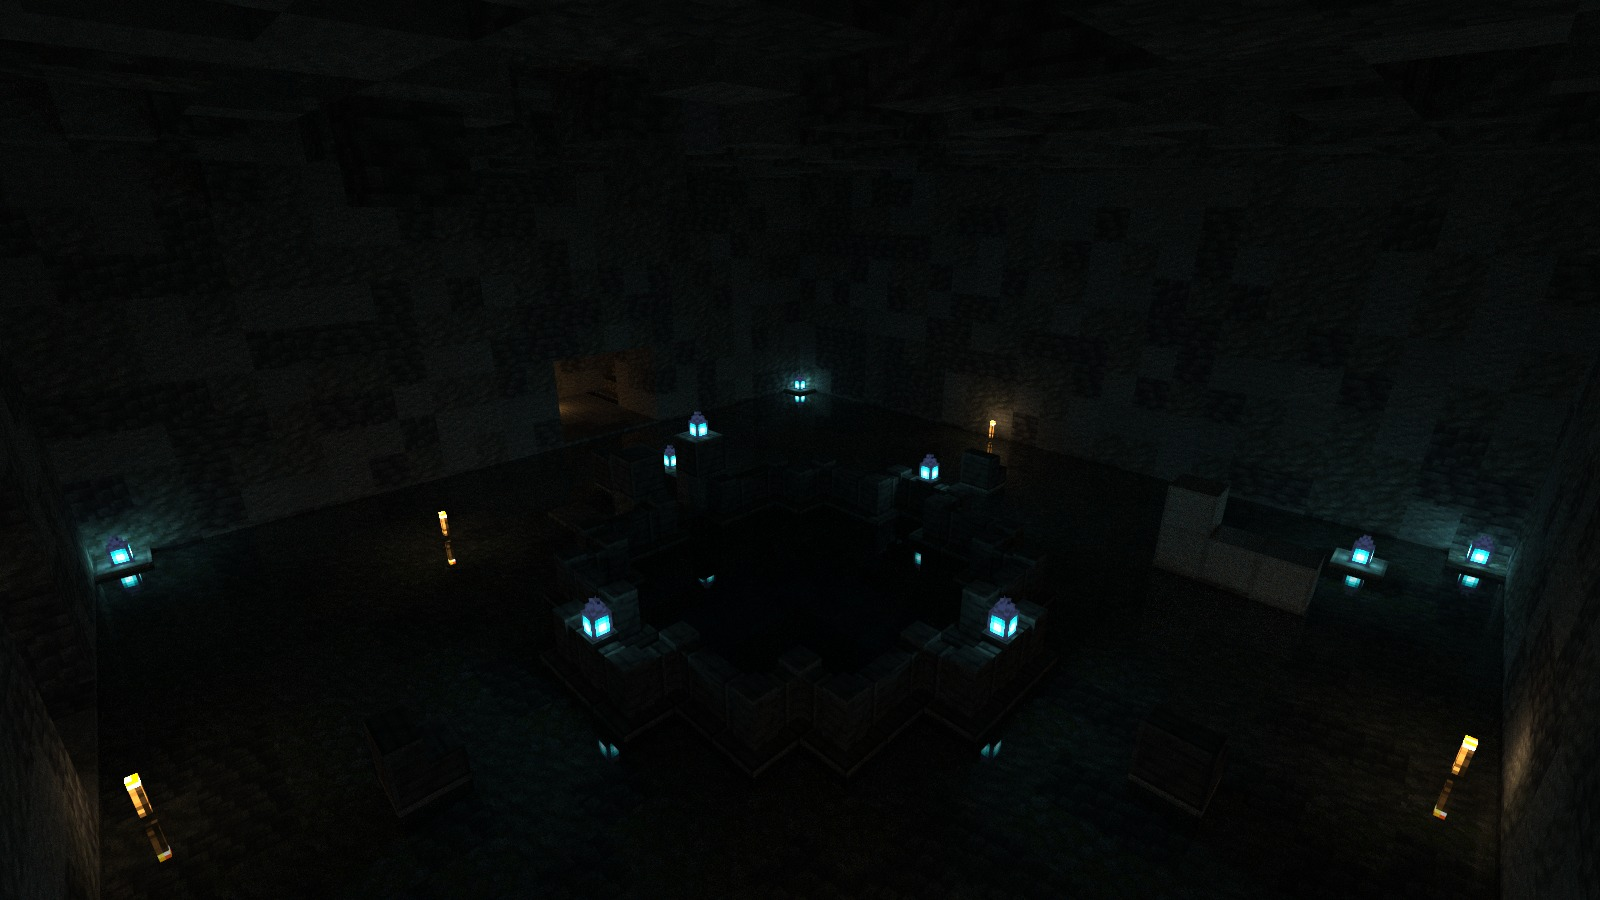
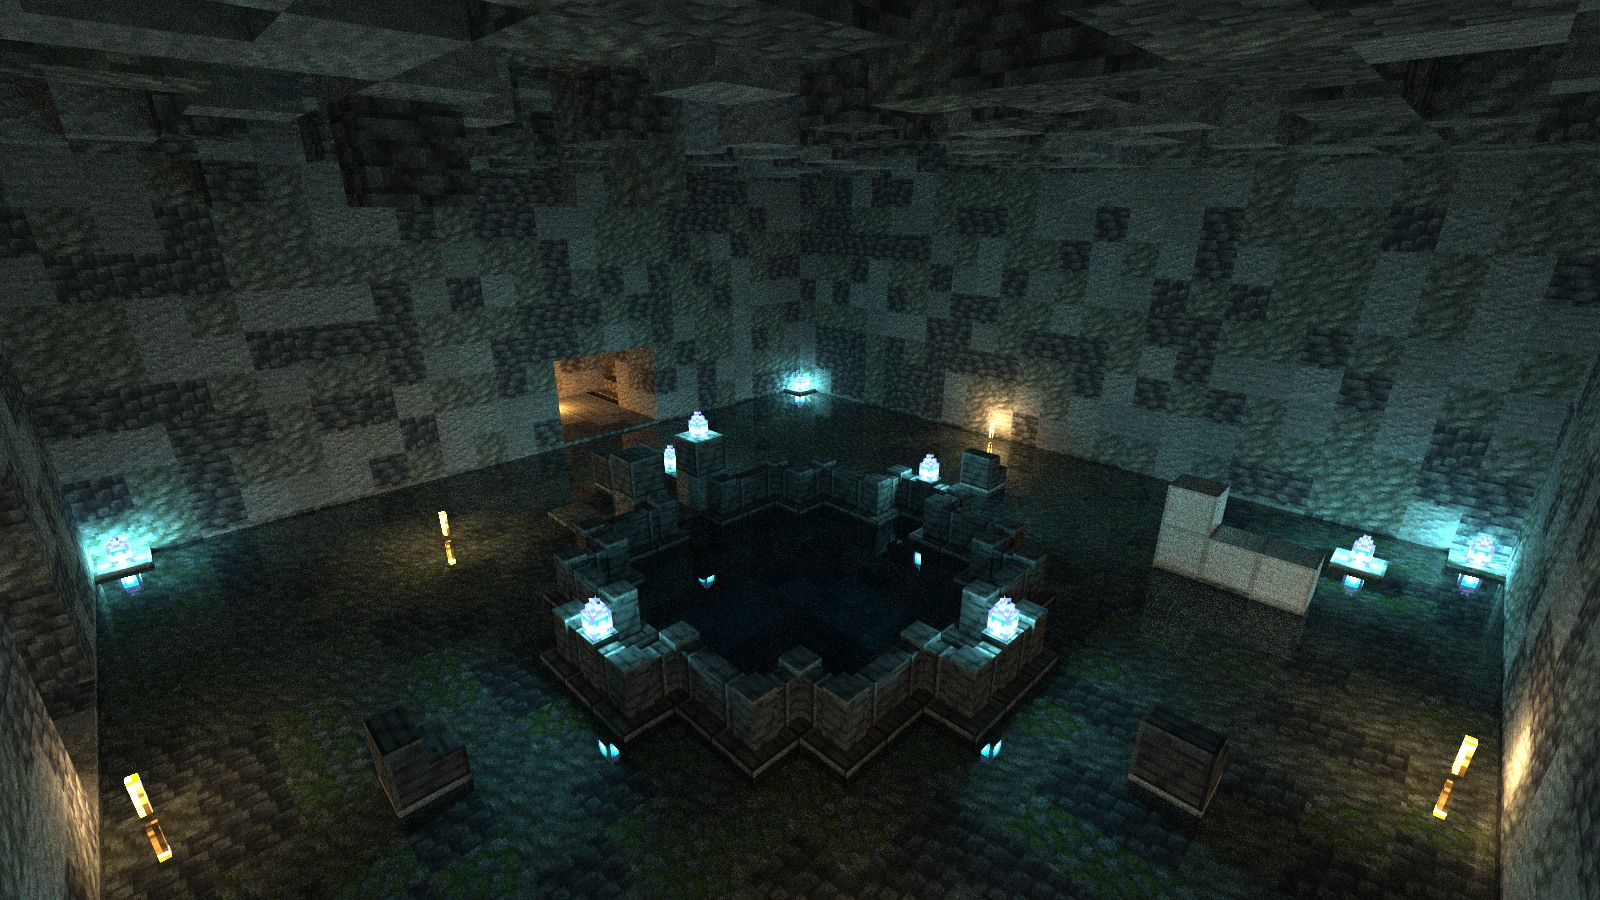
docs(media): Vesperhold's three interiors exposed per camera
The chapel, the undertide pool and the throne hall are redrawn at a
stated exposure, Lumenwright 0.3.0's HqOptions::exposure (the linear
multiplier before its tonemap); delvec 1.14.0's frame function fixes
exposure at 1.0 and offers none per camera. The scratch instrument builds
the same Request as frames::draw with only that field stated (at 1.0 its
PNG is byte-identical to frames::draw's). Each exposure is the value whose
400x225 256-spp frame has the old picture's mean luma (bisection on the
old JPEG). No pixel is changed after the render. Cameras, sky and world
are unchanged.

The chapel's rose window glows again at this exposure, so its caption is
restored to say so.

| Picture | exposure | spp | render s | bytes |
|---|---|---|---|---|
| 07-chapel-of-hours | 12.16 | 4096 | 631 | 377209 |
| 08-undertide-pool | 24.44 | 8192 | 1116 | 474263 |
| 11-throne-hall | 25.46 | 8192 | 806 | 477272 |

Backend: Metal, Apple M2 Pro. JPEG: Pillow, highest quality <= 92 at or
under 500000 bytes, 4:2:0, progressive.

diff --git a/docs/media/vesperhold/README.md b/docs/media/vesperhold/README.md
@@ -24,7 +24,7 @@ The cloister from above: one tree in the garth, the arcades around it, the well-
 
 ![The Chapel of Hours](07-chapel-of-hours.jpg)
 
-The Chapel of Hours, shown by day: noon light falling through the broken roof onto the pews, and the rose window in the west front.
+The Chapel of Hours, shown by day: noon light falling through the broken roof onto the pews, and the rose window glowing in the west front.
 
 ![The undertide pool](08-undertide-pool.jpg)
 
